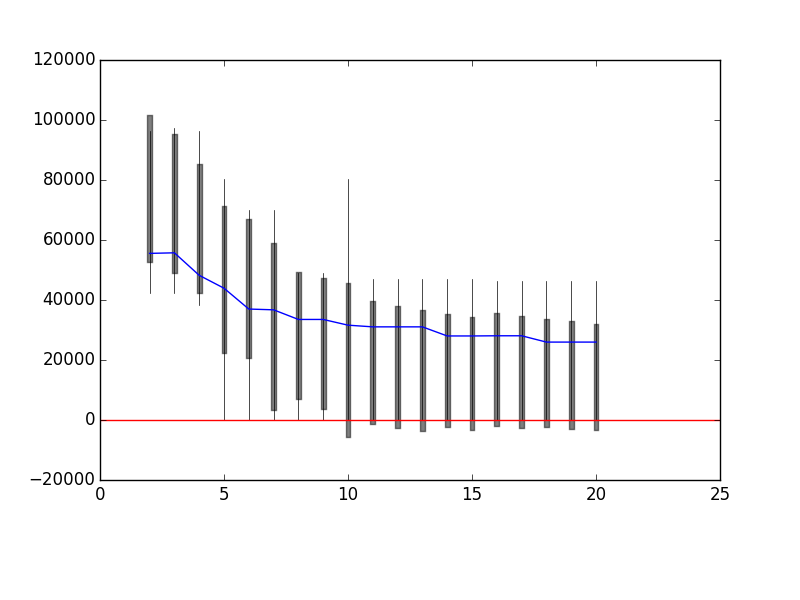
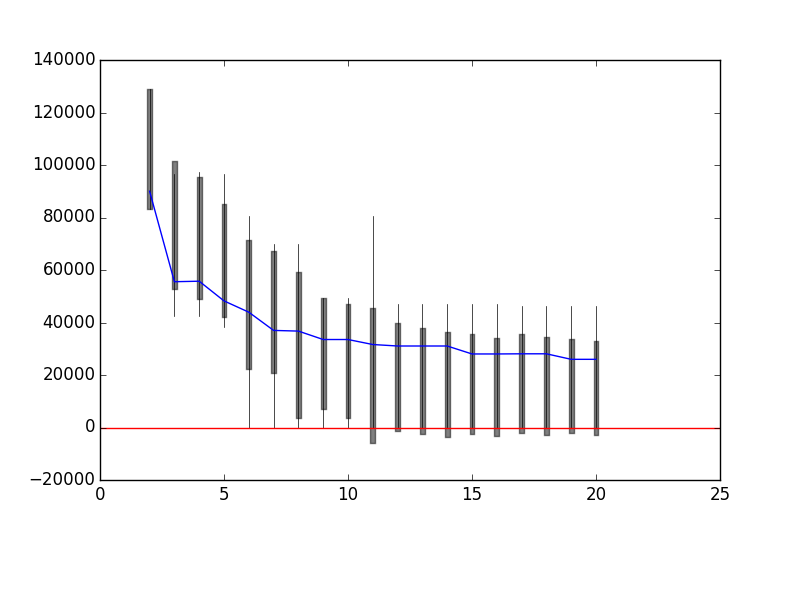
SGDI. P2. Perfeccionado el kmeans

diff --git a/Practica2/p2_k_means.py b/Practica2/p2_k_means.py
@@ -44,7 +44,7 @@ def recalcular_centroides(newListCluster,centroides):
 
 def getCentroids(k, instancias):
   listaCentroids = [instancias[0]]
-  for i in range(0,k):
+  for i in range(0,k-1):
     listaDistancias = []
     for ins in instancias:
       listaDistancias.append(getDist(ins,listaCentroids))
@@ -58,19 +58,23 @@ def getDist(i1, lista_ins):
     dist+=distance.euclidean(i1,ins)
   return dist
 
+### Devuelve el elemento del cluster "theList" que tiene la distancia maxima/minima (theFunc) al centro "target"
 def getMinMaxToTarget(target, theList, theFunc = min):
   listDistances = []
   for elem in theList:
     listDistances.append(distance.euclidean(target,elem))
   return listDistances.index(theFunc(listDistances))
 
+### Devuelve la distancia maxima/minima (theFunc) que existe entre todos los elementos del cluster
 def getMinMaxDistFromList(listaCluster, theFunc = max):
-  distMin = -1.0
+  distMin = None
   for x in range(0,len(listaCluster)):
     for y in range(x+1,len(listaCluster)):
       aux = distance.euclidean(listaCluster[x],listaCluster[y])
-      if aux > distMin:
+      if distMin == None:
         distMin = aux
+      else: 
+        distMin = theFunc(aux, distMin)
   return distMin
 
 def getAverageDistance(centroid, cluster):
@@ -143,10 +147,8 @@ def prueba():
     distancias.append( [i]+getStats(listDistancias))
     distanciaNorm = getMeanWeight(listDistancias, [len(x) for x in clusters], len(aux))
     distanciasNorm.append(distanciaNorm)
-    if i == 5:
-      print '===>', listDistancias.index(max(listDistancias))
-      print max(listDistancias)
-      print clusters[listDistancias.index(max(listDistancias))]
+    
+    ### print i,'===>', listRadios     ### Indica el numero de clusters y el radio maximo (entre el centro y la instancia mas alejada)
 
 
   fig, ax = plt.subplots()
